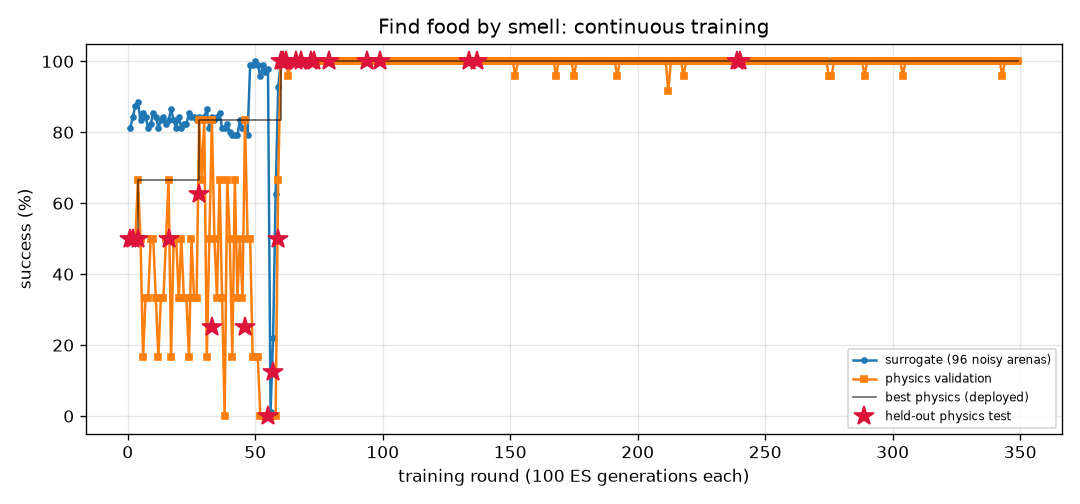
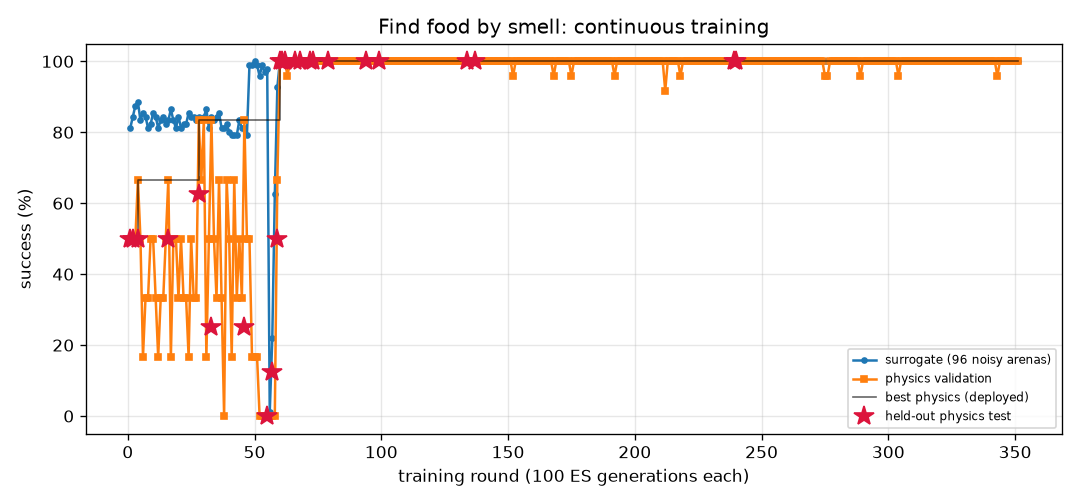
FlyLab: continuous training progress
- walk_forward: optimal, physics val 100% of 24, round 569
- turn: optimal, physics val 100% of 24, round 1406
- goto: optimal, physics val 100% of 24, round 436
- odor_seek: optimal, physics val 100% of 24, round 351
- odor_avoid: optimal, physics val 100% of 24, round 1176
- light_seek: optimal, physics val 100% of 24, round 640
- light_avoid: optimal, physics val 100% of 24, round 890

diff --git a/projects/09_flylab/training/walk_forward/REPORT.md b/projects/09_flylab/training/walk_forward/REPORT.md
@@ -1,14 +1,14 @@
 # Walk forward (`walk_forward`) — training report
 
-*Auto-generated by `train_brains.py`, last updated 2026-11-27T12:47:14.*
+*Auto-generated by `train_brains.py`, last updated 2026-11-27T13:26:13.*
 
 ![curve](curve.png)
 
 | | |
 |---|---|
-| rounds | 566 |
-| ES generations | 56600 |
-| physics runs | 13662 |
+| rounds | 569 |
+| ES generations | 56900 |
+| physics runs | 13734 |
 | status | **optimal** |
 | best brain | round 485: physics validation **100%** on 24 arenas, surrogate 100% |
 | held-out physics test | **100%** on 32 unseen arenas (95% CI 89%-100%) (errors: [0.14, 0.13, 0.15, 0.21, 0.14, 0.12, 0.13, 0.18, 0.2, 0.15, 0.13, 0.14, 0.2, 0.15, 0.12, 0.12, 0.14, 0.14, 0.13, 0.13, 0.14, 0.21, 0.14, 0.13, 0.14, 0.14, 0.18, 0.14, 0.14, 0.14, 0.17, 0.15]) |
@@ -17,9 +17,6 @@ Physics error per arena: mm from target at the end (< 1.5 and standing still = s
 
 | round | level | gens | sigma | surrogate | physics val | val errors | test | note |
 |---:|---:|---:|---:|---:|---:|---|---:|---|
-| 527 | 3 | 52700 | 0.024 | 100% | 96% | [0.08, 0.06, 0.09, 0.13, 0.02, 0.09, 0.05, 0.1, 0.06, 0.06, 0.08, 0.19, 0.1, 0.07, 0.07, 0.13, 0.12, 0.08, 0.07, 0.07, 0.1, 0.18, 0.12, 0.11] |  |  |
-| 528 | 3 | 52800 | 0.024 | 100% | 100% | [0.16, 0.17, 0.08, 0.15, 0.2, 0.07, 0.23, 0.08, 0.19, 0.3, 0.07, 0.25, 0.15, 0.08, 0.14, 0.31, 0.15, 0.14, 0.15, 0.13, 0.15, 0.3, 0.24, 0.14] |  |  |
-| 529 | 3 | 52900 | 0.024 | 100% | 100% | [0.15, 0.15, 0.16, 0.15, 0.15, 0.16, 0.16, 0.16, 0.15, 0.18, 0.15, 0.2, 0.16, 0.15, 0.15, 0.2, 0.15, 0.15, 0.16, 0.14, 0.15, 0.19, 0.21, 0.16] |  | restart from best |
 | 530 | 3 | 53000 | 0.024 | 100% | 92% | [0.1, 0.05, 0.07, 0.09, 0.03, 0.09, 0.07, 1.01, 0.06, 0.12, 0.1, 0.14, 0.09, 0.09, 0.1, 0.09, 0.09, 1.02, 0.02, 0.23, 0.59, 0.06, 0.07, 0.09] |  |  |
 | 531 | 3 | 53100 | 0.024 | 100% | 83% | [0.2, 0.24, 0.34, 0.19, 0.24, 0.4, 0.24, 0.06, 0.24, 0.23, 0.1, 0.1, 0.07, 0.08, 0.21, 0.21, 0.18, 0.23, 0.07, 0.23, 0.06, 0.23, 0.08, 0.16] |  |  |
 | 532 | 3 | 53200 | 0.024 | 100% | 100% | [0.22, 0.24, 0.09, 0.21, 0.23, 0.08, 0.1, 0.08, 0.23, 0.12, 0.04, 0.15, 0.2, 0.09, 0.23, 0.13, 0.21, 0.24, 0.2, 0.23, 0.21, 0.13, 0.12, 0.2] |  |  |
@@ -57,3 +54,6 @@ Physics error per arena: mm from target at the end (< 1.5 and standing still = s
 | 564 | 3 | 56400 | 0.025 | 100% | 100% | [0.25, 0.27, 0.28, 0.25, 0.28, 0.27, 0.29, 0.28, 0.27, 0.38, 0.27, 0.4, 0.27, 0.27, 0.24, 0.39, 0.26, 0.25, 0.27, 0.24, 0.26, 0.39, 0.41, 0.28] |  |  |
 | 565 | 3 | 56500 | 0.024 | 99% | 100% | [0.21, 0.26, 0.21, 0.21, 0.26, 0.2, 0.27, 0.2, 0.26, 0.28, 0.2, 0.28, 0.2, 0.2, 0.22, 0.27, 0.2, 0.25, 0.21, 0.23, 0.2, 0.28, 0.26, 0.2] |  | restart from best |
 | 566 | 3 | 56600 | 0.024 | 100% | 88% | [0.06, 0.07, 0.01, 0.05, 0.07, 0.03, 0.07, 0.59, 0.07, 0.21, 0.06, 0.22, 0.09, 0.03, 0.06, 0.22, 2.61, 0.24, 0.15, 0.07, 0.09, 0.21, 0.12, 0.09] |  |  |
+| 567 | 3 | 56700 | 0.024 | 100% | 100% | [0.4, 0.38, 0.41, 0.4, 0.38, 0.41, 0.39, 0.42, 0.39, 0.44, 0.42, 0.5, 0.42, 0.42, 0.4, 0.48, 0.41, 0.38, 0.41, 0.4, 0.41, 0.45, 0.51, 0.41] |  |  |
+| 568 | 3 | 56800 | 0.024 | 100% | 100% | [0.22, 0.18, 0.27, 0.23, 0.17, 0.27, 0.19, 0.27, 0.18, 0.28, 0.27, 0.34, 0.27, 0.27, 0.2, 0.32, 0.24, 0.17, 0.27, 0.19, 0.27, 0.3, 0.34, 0.27] |  |  |
+| 569 | 3 | 56900 | 0.024 | 99% | 100% | [0.19, 0.17, 0.23, 0.19, 0.17, 0.23, 0.19, 0.23, 0.18, 0.27, 0.23, 0.3, 0.23, 0.23, 0.17, 0.29, 0.2, 0.15, 0.22, 0.16, 0.22, 0.28, 0.3, 0.24] |  | restart from best |

diff --git a/projects/09_flylab/training/odor_seek/REPORT.md b/projects/09_flylab/training/odor_seek/REPORT.md
@@ -1,14 +1,14 @@
 # Find food by smell (`odor_seek`) — training report
 
-*Auto-generated by `train_brains.py`, last updated 2026-11-26T21:06:17.*
+*Auto-generated by `train_brains.py`, last updated 2026-11-27T13:40:35.*
 
 ![curve](curve.png)
 
 | | |
 |---|---|
-| rounds | 349 |
-| ES generations | 34900 |
-| physics runs | 7870 |
+| rounds | 351 |
+| ES generations | 35100 |
+| physics runs | 7918 |
 | status | **optimal** |
 | best brain | round 240: physics validation **100%** on 24 arenas, surrogate 100% |
 | held-out physics test | **100%** on 32 unseen arenas (95% CI 89%-100%) (errors: [0.02, 0.03, 0.03, 0.05, 0.04, 0.05, 0.06, 0.07, 0.09, 0.05, 0.05, 0.01, 0.12, 0.03, 0.07, 0.08, 0.02, 0.06, 0.03, 0.04, 0.0, 0.01, 0.09, 0.05, 0.04, 0.01, 0.07, 0.05, 0.08, 0.05, 0.05, 0.02]) |
@@ -17,8 +17,6 @@ Physics error per arena: mm from target at the end (< 1.5 and standing still = s
 
 | round | level | gens | sigma | surrogate | physics val | val errors | test | note |
 |---:|---:|---:|---:|---:|---:|---|---:|---|
-| 310 | 3 | 31000 | 0.024 | 100% | 100% | [0.08, 0.12, 0.18, 0.14, 0.16, 0.18, 0.18, 0.14, 0.11, 0.11, 0.17, 0.2, 0.12, 0.12, 0.06, 0.16, 0.09, 0.14, 0.13, 0.11, 0.13, 0.05, 0.14, 0.11] |  |  |
-| 311 | 3 | 31100 | 0.024 | 100% | 100% | [0.17, 0.24, 0.18, 0.13, 0.13, 0.16, 0.17, 0.17, 0.2, 0.14, 0.15, 0.15, 0.16, 0.18, 0.17, 0.1, 0.09, 0.14, 0.16, 0.1, 0.09, 0.12, 0.05, 0.12] |  |  |
 | 312 | 3 | 31200 | 0.024 | 100% | 100% | [0.12, 0.08, 0.11, 0.18, 0.13, 0.07, 0.1, 0.1, 0.14, 0.1, 0.06, 0.16, 0.13, 0.1, 0.09, 0.12, 0.08, 0.07, 0.13, 0.1, 0.13, 0.05, 0.12, 0.15] |  | restart from best |
 | 313 | 3 | 31300 | 0.024 | 100% | 100% | [0.03, 0.05, 0.02, 0.1, 0.04, 0.09, 0.01, 0.04, 0.04, 0.05, 0.03, 0.02, 0.04, 0.04, 0.05, 0.05, 0.14, 0.07, 0.05, 0.05, 0.07, 0.03, 0.06, 0.09] |  |  |
 | 314 | 3 | 31400 | 0.024 | 100% | 100% | [0.15, 0.13, 0.22, 0.14, 0.16, 0.14, 0.12, 0.15, 0.14, 0.14, 0.13, 0.18, 0.14, 0.2, 0.15, 0.16, 0.18, 0.12, 0.17, 0.22, 0.16, 0.21, 0.15, 0.17] |  |  |
@@ -57,3 +55,5 @@ Physics error per arena: mm from target at the end (< 1.5 and standing still = s
 | 347 | 3 | 34700 | 0.024 | 100% | 100% | [0.25, 0.19, 0.19, 0.16, 0.24, 0.24, 0.18, 0.16, 0.2, 0.21, 0.21, 0.15, 0.19, 0.16, 0.19, 0.14, 0.13, 0.18, 0.15, 0.19, 0.25, 0.17, 0.15, 0.17] |  |  |
 | 348 | 3 | 34800 | 0.024 | 100% | 100% | [0.22, 0.17, 0.19, 0.16, 0.23, 0.24, 0.23, 0.22, 0.13, 0.17, 0.2, 0.17, 0.11, 0.15, 0.19, 0.16, 0.21, 0.2, 0.27, 0.22, 0.2, 0.33, 0.12, 0.14] |  | restart from best |
 | 349 | 3 | 34900 | 0.024 | 100% | 100% | [0.2, 0.17, 0.17, 0.16, 0.16, 0.21, 0.15, 0.17, 0.14, 0.19, 0.23, 0.16, 0.21, 0.22, 0.17, 0.17, 0.14, 0.19, 0.2, 0.22, 0.16, 0.18, 0.21, 0.19] |  |  |
+| 350 | 3 | 35000 | 0.024 | 100% | 100% | [0.24, 0.16, 0.21, 0.16, 0.19, 0.21, 0.19, 0.23, 0.19, 0.15, 0.15, 0.16, 0.17, 0.2, 0.19, 0.18, 0.21, 0.12, 0.15, 0.17, 0.19, 0.16, 0.2, 0.2] |  |  |
+| 351 | 3 | 35100 | 0.024 | 100% | 100% | [0.15, 0.13, 0.17, 0.13, 0.1, 0.11, 0.16, 0.18, 0.12, 0.05, 0.12, 0.13, 0.19, 0.11, 0.14, 0.1, 0.09, 0.18, 0.16, 0.17, 0.14, 0.16, 0.12, 0.16] |  |  |

diff --git a/projects/09_flylab/training/turn/REPORT.md b/projects/09_flylab/training/turn/REPORT.md
@@ -1,14 +1,14 @@
 # Turn in place (`turn`) — training report
 
-*Auto-generated by `train_brains.py`, last updated 2026-11-27T10:03:34.*
+*Auto-generated by `train_brains.py`, last updated 2026-11-27T13:36:49.*
 
 ![curve](curve.png)
 
 | | |
 |---|---|
-| rounds | 1405 |
-| ES generations | 140500 |
-| physics runs | 33966 |
+| rounds | 1406 |
+| ES generations | 140600 |
+| physics runs | 33990 |
 | status | **optimal** |
 | best brain | round 80: physics validation **100%** on 24 arenas, surrogate 100% |
 | held-out physics test | **97%** on 32 unseen arenas (95% CI 84%-99%) (errors: [1.6, 3.3, 6.3, 3.7, 1.1, 0.4, 2.4, 2.9, 0.1, 2.6, 0.5, 2.7, 1.5, 3.1, 4.5, 0.2, 0.5, 1.1, 2.0, 4.4, 2.8, 3.2, 0.3, 2.2, 0.5, 3.0, 0.3, 5.4, 0.4, 1.0, 4.7, 10.7]) |
@@ -17,7 +17,6 @@ Physics error per arena: deg from target heading (< 20 = success).
 
 | round | level | gens | sigma | surrogate | physics val | val errors | test | note |
 |---:|---:|---:|---:|---:|---:|---|---:|---|
-| 1366 | 3 | 136600 | 0.024 | 97% | 71% | [11.0, 17.1, 11.0, 4.3, 2.2, 7.0, 11.2, 8.1, 10.6, 3.1, 5.7, 7.5, 4.9, 4.2, 6.6, 19.4, 7.8, 19.5, 5.8, 5.9, 2.2, 5.5, 9.7, 9.6] |  |  |
 | 1367 | 3 | 136700 | 0.026 | 99% | 71% | [8.1, 1.5, 2.6, 1.1, 0.5, 2.8, 5.6, 2.1, 4.0, 1.4, 4.9, 1.8, 0.4, 1.2, 4.9, 0.5, 1.7, 4.9, 1.0, 1.1, 7.9, 1.1, 4.6, 1.8] |  |  |
 | 1368 | 3 | 136800 | 0.025 | 99% | 92% | [0.2, 7.2, 8.4, 2.4, 3.1, 120.1, 15.3, 1.3, 8.4, 14.9, 5.5, 7.4, 3.0, 3.5, 5.8, 15.9, 7.4, 15.0, 16.1, 6.0, 2.1, 3.0, 8.4, 8.7] |  | restart from best |
 | 1369 | 3 | 136900 | 0.024 | 100% | 75% | [7.7, 1.2, 6.8, 0.2, 15.8, 1.3, 7.0, 8.1, 6.8, 1.2, 4.2, 2.0, 1.7, 2.0, 4.8, 3.6, 2.9, 2.3, 4.5, 1.5, 3.5, 0.6, 6.7, 6.6] |  |  |
@@ -57,3 +56,4 @@ Physics error per arena: deg from target heading (< 20 = success).
 | 1403 | 3 | 140300 | 0.025 | 100% | 88% | [2.9, 8.4, 3.1, 1.4, 4.9, 1.2, 3.5, 5.4, 4.2, 0.3, 2.5, 1.1, 0.2, 2.8, 2.8, 1.0, 1.1, 0.3, 1.6, 2.0, 5.8, 1.4, 4.1, 2.0] |  |  |
 | 1404 | 3 | 140400 | 0.024 | 100% | 75% | [5.6, 3.0, 0.2, 1.8, 0.5, 2.9, 6.1, 0.7, 5.2, 13.5, 5.3, 0.6, 0.2, 1.0, 4.6, 2.6, 0.2, 1.7, 2.6, 0.8, 2.7, 2.4, 3.0, 6.4] |  | restart from best |
 | 1405 | 3 | 140500 | 0.024 | 97% | 75% | [9.5, 12.1, 11.5, 3.8, 5.6, 2.7, 2.9, 11.1, 1.3, 4.9, 2.3, 5.5, 5.5, 3.3, 0.4, 4.4, 4.4, 2.5, 4.3, 3.6, 10.7, 1.2, 1.5, 2.8] |  |  |
+| 1406 | 3 | 140600 | 0.026 | 99% | 96% | [6.4, 9.0, 1.0, 5.1, 3.1, 1.7, 3.1, 0.9, 2.1, 0.5, 4.5, 1.4, 4.6, 2.1, 1.8, 2.0, 1.5, 0.8, 1.7, 1.0, 5.3, 0.2, 2.1, 0.5] |  |  |

diff --git a/projects/09_flylab/training/TRAINING.md b/projects/09_flylab/training/TRAINING.md
@@ -1,15 +1,15 @@
 # FlyLab brains — continuous training log
 
-*Auto-generated by `train_brains.py`, last updated 2026-11-27T12:53:22.*
+*Auto-generated by `train_brains.py`, last updated 2026-11-27T13:40:36.*
 
 Every skill has its own brain and its own training process: surrogate ES rounds, physics validation in MuJoCo, keep-the-best selection, and a held-out physics test that is never used for selection. See each skill's report for its full round-by-round history. Mastery is progressive: passing a level (100% physics validation, >=95% surrogate) doubles the validation and test arena sets; a brain is **optimal** once it holds up at level 3 (>=95% of 24 validation arenas) AND scores >=90% on the 32 held-out test arenas. Test columns show 95% Wilson confidence intervals.
 
 | skill | rounds | ES generations | physics runs | surrogate | physics val | **physics test** | status |
 |---|---:|---:|---:|---:|---:|---:|---|
-| [Walk forward](walk_forward/REPORT.md) | 566 | 56600 | 13662 | 100% | 100% of 24 | 100% of 32 (CI 89-100%) | **optimal** |
-| [Turn in place](turn/REPORT.md) | 1405 | 140500 | 33966 | 100% | 100% of 24 | 97% of 32 (CI 84-99%) | **optimal** |
+| [Walk forward](walk_forward/REPORT.md) | 569 | 56900 | 13734 | 100% | 100% of 24 | 100% of 32 (CI 89-100%) | **optimal** |
+| [Turn in place](turn/REPORT.md) | 1406 | 140600 | 33990 | 100% | 100% of 24 | 97% of 32 (CI 84-99%) | **optimal** |
 | [Go to a location](goto/REPORT.md) | 436 | 43600 | 10414 | 100% | 100% of 24 | 100% of 32 (CI 89-100%) | **optimal** |
-| [Find food by smell](odor_seek/REPORT.md) | 349 | 34900 | 7870 | 100% | 100% of 24 | 100% of 32 (CI 89-100%) | **optimal** |
+| [Find food by smell](odor_seek/REPORT.md) | 351 | 35100 | 7918 | 100% | 100% of 24 | 100% of 32 (CI 89-100%) | **optimal** |
 | [Escape a bad smell](odor_avoid/REPORT.md) | 1176 | 117600 | 25530 | 97% | 100% of 24 | 97% of 32 (CI 84-99%) | **optimal** |
 | [Walk toward light](light_seek/REPORT.md) | 640 | 64000 | 12240 | 100% | 100% of 24 | 100% of 32 (CI 89-100%) | **optimal** |
 | [Hide from light](light_avoid/REPORT.md) | 890 | 89000 | 21632 | 100% | 100% of 24 | 100% of 32 (CI 89-100%) | **optimal** |
